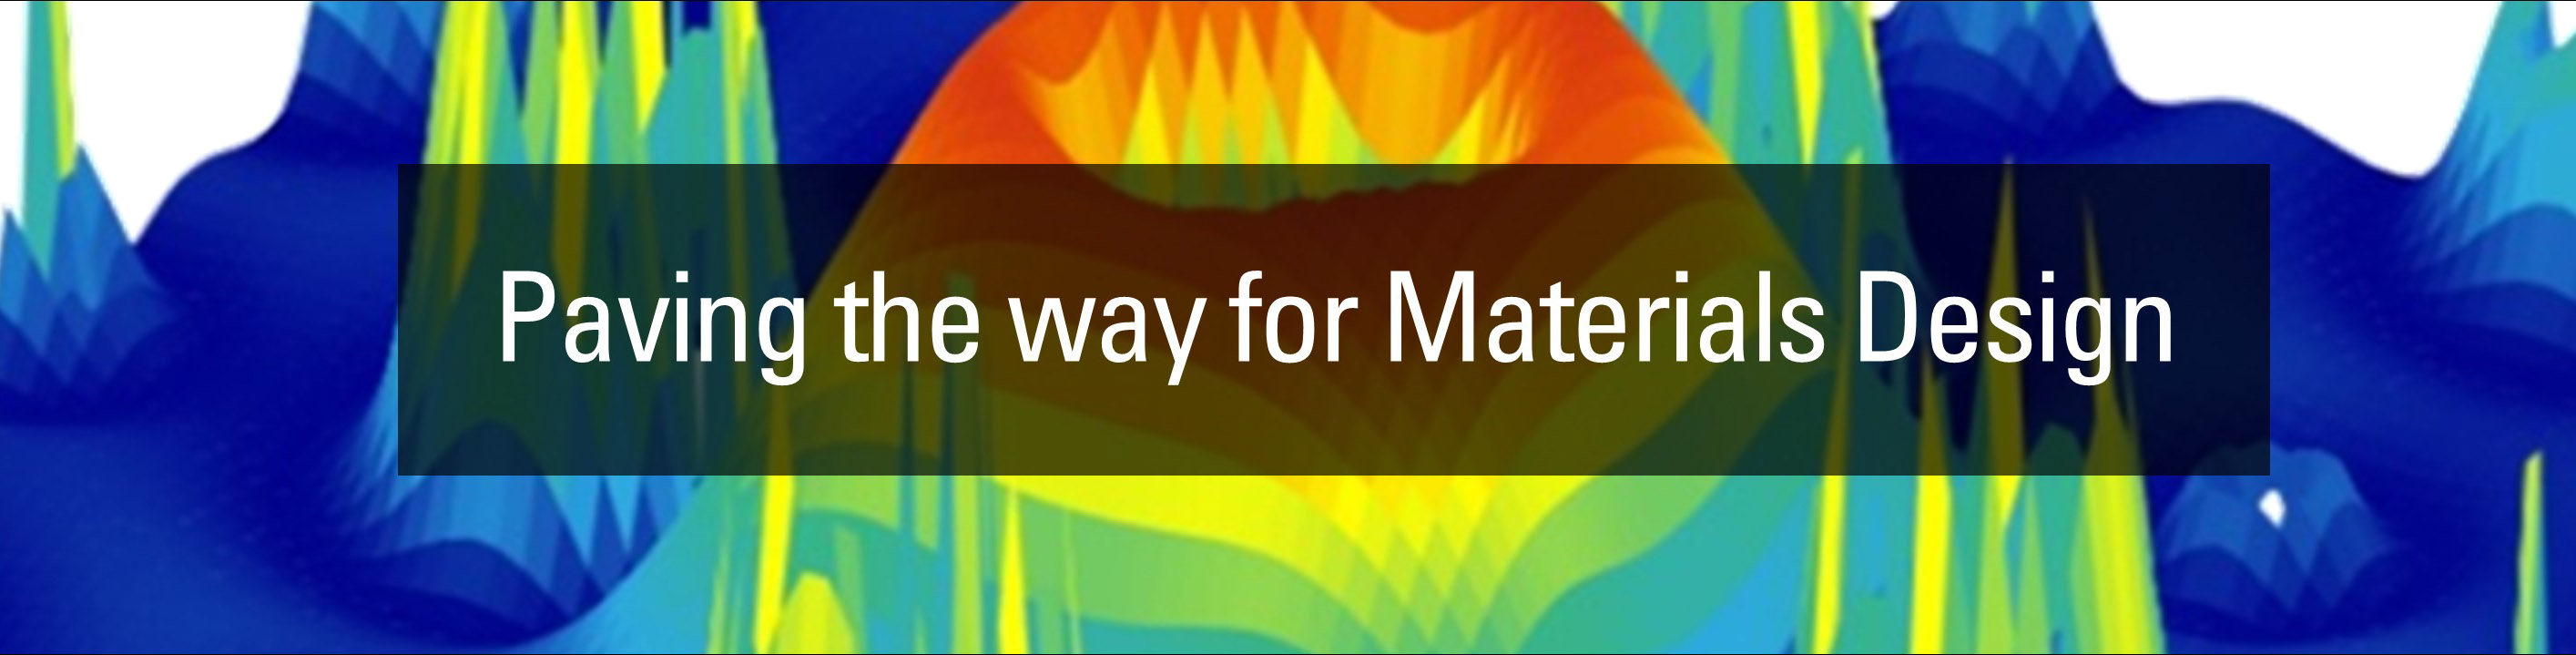
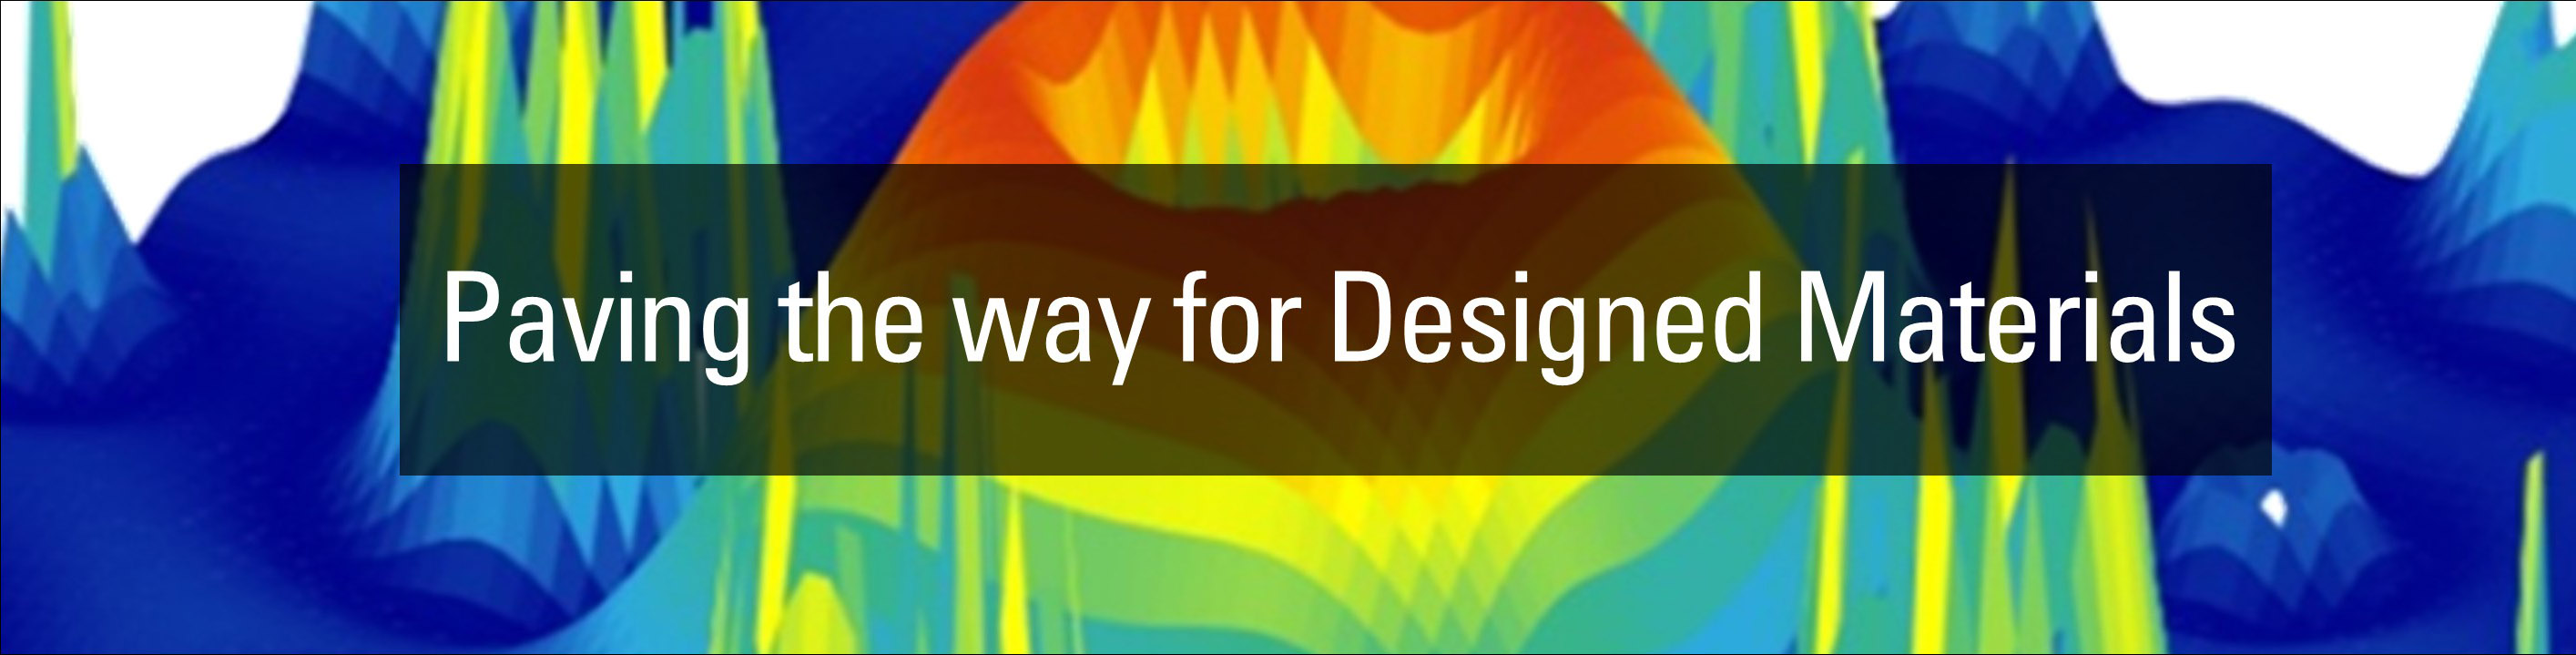
may12

diff --git a/src/content/manuscript/english/-index.md b/src/content/manuscript/english/-index.md
@@ -7,6 +7,9 @@ draft: false
 ---
  <p align="right"> **Bold** *indicates Mizoguchi Lab. member.* </p>
  
+1.  **Y. Choi**, **T. Sugiura**,......, and **T. Mizoguchi**  
+    under preparation
+
 1.  **K. Miyamoto**, **I. Okuda**, and **T. Mizoguchi**  
     under preparation
 
@@ -17,12 +20,15 @@ draft: false
     submitted
 
 1.  **S. Ozawa**, **I. Takahara**, and **T. Mizoguchi**  
+    "Scale-Dependent Input Representation and Confidence Estimation for LLMs in Materials Property Prediction"  
     submitted   [**arxiv**](https://arxiv.org/abs/2605.03515)
 
 1.  **Y. Wang**, **P.Y. Chen**, and **T. Mizoguchi**  
-    submitted   [**arxiv**](https://arxiv.org/abs/2604.27342)
+    "Ultrafast Sliding Ferroelectric Switching in Bilayer Hexagonal Boron Nitride Revealed by Deep Learning Molecular Dynamics"  
+        submitted   [**arxiv**](https://arxiv.org/abs/2604.27342)
 
 1.  **I. Okuda**, **I. Takahara**, and **T. Mizoguchi**  
+    "Inverse Materials Design via Joint Generation of Crystal Structures and Local Electronic Descriptors"  
     submitted   [**arxiv**](https://arxiv.org/abs/2605.01286)
 
 1.  **YR. Jin**, **T. Mizoguchi**, and J. Lee  
@@ -32,18 +38,23 @@ draft: false
     submitted
 
 1.  **Y. Wang**, A. Varadwaj, **T. Mizoguchi**, and M. Kotsugi  
+    "Decoding Dopant-Induced Electronic Modulation in Graphene via Region-Resolved Machine Learning of XANES"  
     submitted  [**arxiv**](https://arxiv.org/abs/2603.29370)
 
 1.  **G. Fukuzawa**, **Y. Lee**, and **T. Mizoguchi**  
+    "Twist-Angle Engineering of Moiré Potentials for High-Performance Ionics in Bilayer Graphene"  
     submitted [**arxiv**](https://arxiv.org/abs/2603.27453)
 
 1.  **P. Y. Chen** and **T. Mizoguchi**  
+    "Long-range interaction effects on the phase transition, mechanical effect, and electric field response of BaTiO3 by machine learning potentials"  
     submitted [**arxiv**](https://arxiv.org/abs/2603.29198)
 
 1.  **R. Sahashi**, **P. Y. Chen**, and **T. Mizoguchi**  
+    "Origin of Reduced Coercive Field in ScAlN: Synergy of Structural Softening and Dynamic Atomic Correlations"  
     submitted, (dynamic softening) [**arxiv**](https://arxiv.org/abs/2603.18710)
 
 1.  **R. Sahashi**, **P. Y. Chen**, and **T. Mizoguchi**  
+    "Decoupling structural and bonding effects on ferroelectric switching in ScAlN via molecular dynamics under an applied electric field"  
     submitted, (decoupling) [**arxiv**](https://arxiv.org/abs/2603.14747)
 
 1.  **T. Mizoguchi**, **P. Y. Chen**, **I. Takahara**, **R. Okubo**, and **Y. Fujikata**  
@@ -53,25 +64,32 @@ draft: false
     submitted
 
 1.  **R. Okubo**, **Y. Fujikata**, **I. Takahara**, and **T. Mizoguchi**  
+    "Generative Inverse Estimation of 3D Atomic Coordination from Near-Edge Spectra via Equivariant Diffusion Models"  
     submitted, [**arxiv**](https://arxiv.org/abs/2602.16133)
 
 1.  **Y. Fujikata**, Y. Muramatsu, and **T. Mizoguchi**  
+    "Finite-size effects and energy alignment in molecular XANES under periodic boundary conditions: A systematic comparison of core-hole treatments"  
     submitted, [**arxiv**](https://arxiv.org/abs/2602.17020)
 
 1.  **T. Sugiura** and **T. Mizoguchi**  
+    "Achieving Robust Extrapolation in Materials Property Prediction via Decoupled Transfer Learning"  
     submitted, [**arxiv**](https://arxiv.org/abs/2602.18054)
 
-1.  N. Ishihara,...**T. Sugiura**, **T. Mizoguchi**, and S. Nakanishi,  
+1.  N. Ishihara,...**T. Sugiura**, **T. Mizoguchi**, and S. Nakanishi  
+    "Vacancy-Driven Phase Separation Governs Li+ Transport Degradation in Li2−xO2 : A Computational Study Relevant to Li–O2 Batteries"  
     submitted, [**Chemrxiv**](https://chemrxiv.org/doi/full/10.26434/chemrxiv.15000496/v1)
 
 1.  H. Zhang,... **I. Takahara**, **T. Mizoguchi**,..., B. Liu,  
+    "Towards Agentic Intelligence for Materials Science"  
     submitted, [**arxiv**](https://arxiv.org/abs/2602.00169)
 
 1.  J. W. Abbott,... **I. Takahara**, **K. Shibata**, **T. Mizoguchi**, et al.,  
+     "Roadmap on Advancements of the FHI-aims Software Package"  
     FHI-aims, submitted, [**arxiv**](https://arxiv.org/abs/2505.00125)
 
 1.  **P. Y. Chen** and **T. Mizoguchi**  
-    submitted, [**arxiv**](https://arxiv.org/abs/2511.09976)
+    "Electric Field-Induced Phase Transitions and Hysteresis in Ferroelectric HfO2 Captured with Machine Learning Potential"  
+    submitted, [**arxiv**](https://arxiv.org/abs/2511.09976)  
 
     **— 2026 —**  
 

diff --git a/src/content/manuscript/french/-index.md b/src/content/manuscript/french/-index.md
@@ -7,6 +7,9 @@ draft: false
 ---
  <p align="right"> **Bold** *indicates Mizoguchi Lab. member.* </p>
  
+1.  **Y. Choi**, **T. Sugiura**,......, and **T. Mizoguchi**  
+    under preparation
+
 1.  **K. Miyamoto**, **I. Okuda**, and **T. Mizoguchi**  
     under preparation
 
@@ -17,12 +20,15 @@ draft: false
     submitted
 
 1.  **S. Ozawa**, **I. Takahara**, and **T. Mizoguchi**  
+    "Scale-Dependent Input Representation and Confidence Estimation for LLMs in Materials Property Prediction"  
     submitted   [**arxiv**](https://arxiv.org/abs/2605.03515)
 
 1.  **Y. Wang**, **P.Y. Chen**, and **T. Mizoguchi**  
-    submitted   [**arxiv**](https://arxiv.org/abs/2604.27342)
+    "Ultrafast Sliding Ferroelectric Switching in Bilayer Hexagonal Boron Nitride Revealed by Deep Learning Molecular Dynamics"  
+        submitted   [**arxiv**](https://arxiv.org/abs/2604.27342)
 
 1.  **I. Okuda**, **I. Takahara**, and **T. Mizoguchi**  
+    "Inverse Materials Design via Joint Generation of Crystal Structures and Local Electronic Descriptors"  
     submitted   [**arxiv**](https://arxiv.org/abs/2605.01286)
 
 1.  **YR. Jin**, **T. Mizoguchi**, and J. Lee  
@@ -32,18 +38,23 @@ draft: false
     submitted
 
 1.  **Y. Wang**, A. Varadwaj, **T. Mizoguchi**, and M. Kotsugi  
+    "Decoding Dopant-Induced Electronic Modulation in Graphene via Region-Resolved Machine Learning of XANES"  
     submitted  [**arxiv**](https://arxiv.org/abs/2603.29370)
 
 1.  **G. Fukuzawa**, **Y. Lee**, and **T. Mizoguchi**  
+    "Twist-Angle Engineering of Moiré Potentials for High-Performance Ionics in Bilayer Graphene"  
     submitted [**arxiv**](https://arxiv.org/abs/2603.27453)
 
 1.  **P. Y. Chen** and **T. Mizoguchi**  
+    "Long-range interaction effects on the phase transition, mechanical effect, and electric field response of BaTiO3 by machine learning potentials"  
     submitted [**arxiv**](https://arxiv.org/abs/2603.29198)
 
 1.  **R. Sahashi**, **P. Y. Chen**, and **T. Mizoguchi**  
+    "Origin of Reduced Coercive Field in ScAlN: Synergy of Structural Softening and Dynamic Atomic Correlations"  
     submitted, (dynamic softening) [**arxiv**](https://arxiv.org/abs/2603.18710)
 
 1.  **R. Sahashi**, **P. Y. Chen**, and **T. Mizoguchi**  
+    "Decoupling structural and bonding effects on ferroelectric switching in ScAlN via molecular dynamics under an applied electric field"  
     submitted, (decoupling) [**arxiv**](https://arxiv.org/abs/2603.14747)
 
 1.  **T. Mizoguchi**, **P. Y. Chen**, **I. Takahara**, **R. Okubo**, and **Y. Fujikata**  
@@ -53,24 +64,31 @@ draft: false
     submitted
 
 1.  **R. Okubo**, **Y. Fujikata**, **I. Takahara**, and **T. Mizoguchi**  
+    "Generative Inverse Estimation of 3D Atomic Coordination from Near-Edge Spectra via Equivariant Diffusion Models"  
     submitted, [**arxiv**](https://arxiv.org/abs/2602.16133)
 
 1.  **Y. Fujikata**, Y. Muramatsu, and **T. Mizoguchi**  
+    "Finite-size effects and energy alignment in molecular XANES under periodic boundary conditions: A systematic comparison of core-hole treatments"  
     submitted, [**arxiv**](https://arxiv.org/abs/2602.17020)
 
 1.  **T. Sugiura** and **T. Mizoguchi**  
+    "Achieving Robust Extrapolation in Materials Property Prediction via Decoupled Transfer Learning"  
     submitted, [**arxiv**](https://arxiv.org/abs/2602.18054)
 
-1.  N. Ishihara,...**T. Sugiura**, **T. Mizoguchi**, and S. Nakanishi,  
+1.  N. Ishihara,...**T. Sugiura**, **T. Mizoguchi**, and S. Nakanishi  
+    "Vacancy-Driven Phase Separation Governs Li+ Transport Degradation in Li2−xO2 : A Computational Study Relevant to Li–O2 Batteries"  
     submitted, [**Chemrxiv**](https://chemrxiv.org/doi/full/10.26434/chemrxiv.15000496/v1)
 
 1.  H. Zhang,... **I. Takahara**, **T. Mizoguchi**,..., B. Liu,  
+    "Towards Agentic Intelligence for Materials Science"  
     submitted, [**arxiv**](https://arxiv.org/abs/2602.00169)
 
 1.  J. W. Abbott,... **I. Takahara**, **K. Shibata**, **T. Mizoguchi**, et al.,  
+     "Roadmap on Advancements of the FHI-aims Software Package"  
     FHI-aims, submitted, [**arxiv**](https://arxiv.org/abs/2505.00125)
 
 1.  **P. Y. Chen** and **T. Mizoguchi**  
+    "Electric Field-Induced Phase Transitions and Hysteresis in Ferroelectric HfO2 Captured with Machine Learning Potential"  
     submitted, [**arxiv**](https://arxiv.org/abs/2511.09976)
 
     **— 2026 —**  

diff --git a/src/content/about/english/-index.md b/src/content/about/english/-index.md
@@ -6,7 +6,7 @@ image: "/images/content-1.png"
 draft: false
 ---
 
-##### Our Research Objective = “Paving the way for Materials Design through a deep understanding of chemical bonding ”
+##### Our Research Objective = “Paving the way for Designed Materials through a deep understanding of chemical bonding ”
 
 <p align="left">For decades, materials development has been driven by trial and error. That paradigm is now changing. Our vision is the realization of Designed Materials — a new frontier in which atomic arrangements are deliberately engineered to achieve target functionalities, bringing into existence structures that nature alone would never produce. At the heart of this vision lies a deep understanding of structure-property relationships — the connections between atomic and electronic structure and material function. By deciphering, at the level of chemical bonding, exactly where and how function emerges, we transform materials from something to be discovered into something to be designed. 
 The Mizoguchi Research Group integrates artificial intelligence, Physical AI, computational simulation, and materials characterization into a seamless research pipeline — driving the full cycle from the elucidation of structure-property relationships to the practical implementation of materials design.
@@ -20,7 +20,7 @@ In recent years, data science has been attracting attention as the fourth paradi
 3) Materials developments through inverse design<br>
 4) Materials discovery and synthesis using AI Agents<br>
 5) Discovery of new materials and new physical properties using data-driven methods<br>
-6) Intelligent materials characterization via Physical AI<br>
+6) Intelligent materials characterizations and developments via Physical AIs<br>
 For example, using our methods, it is possible to complete calculations that would normally take 22 years in just 3 hours. Additionally, by utilizing AI technology, we have succeeded in gaining new insights that even specialized researchers could not obtain before.
 <br><br>
 <b>Keywords:</b>Materials Informatics, Data-Driven, Artificial Intelligence, Generative AI, LLM, AI agent, Material Exploration, Spectral Analysis, Autonomous & Automated Analysis, Physical AI, Lattice Defects, Physics Extraction

diff --git a/src/content/about/french/-index.md b/src/content/about/french/-index.md
@@ -6,7 +6,7 @@ image: "/images/content-1.png"
 draft: false
 ---
 
-##### 我々の研究目的 ＝ “ 物質の構造機能相関を解明し物質設計を実現する ”
+##### 我々の研究目的 ＝ “ 物質の構造機能相関を解明し物質を設計する ”
 
 <p align="left">物質開発は長らく，試行錯誤の繰り返しであり続けてきました．しかし今，その構図を根本から変える時代が来ています．
 我々が目指すのは，「Designed Materialsの実現」，つまり目的の機能を実現するために原子配列を意図的に設計し，自然界には存在しない構造をも作り出す，物質開発の新たなパラダイムです．

diff --git a/src/content/homepage/english/-index.md b/src/content/homepage/english/-index.md
@@ -11,7 +11,7 @@ banner:
 
 # Features
 features:
-  - title: "Paving the way for Materials Design"
+  - title: "Paving the way for Designed Materials"
     image: "/images/content-1.png"
     content:  "Research objective"
     bulletpoints:

diff --git a/src/content/homepage/french/-index.md b/src/content/homepage/french/-index.md
@@ -11,7 +11,7 @@ banner:
 
 # Features
 features:
-  - title: "Paving the way for Materials Design"
+  - title: "Paving the way for Designed Materials"
     image: "/images/content-1.png"
     content:  "研究目標"
     bulletpoints: